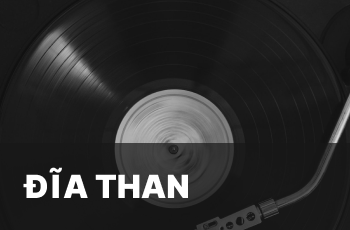
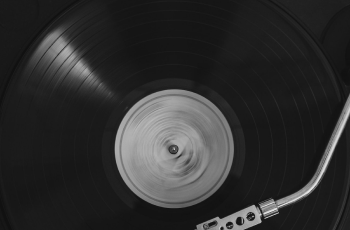
Update admin

Changed region(s): [[0.0571, 0.6087, 0.6857, 0.913], [0.5429, 0.6087, 0.9714, 1.0]]

diff --git a/wwwroot/css/Categories.css b/wwwroot/css/Categories.css
@@ -1,50 +1,106 @@
-.content{
-width: 80%; 
-margin: 20px auto;  
-max-width: 1200px;
-padding: 20px;
-
+.content {
+    width: 80%;
+    margin: 20px auto;
+    max-width: 1200px;
+    padding: 20px;
 }
 
-.content h1{
+.content h1 {
     width: 100%;
     justify-content: center;
     padding: 20px;
     display: flex;
     font-size: 32px;
     font-weight: bolder;
+    animation: fadeInUp 1s ease-in-out;
 }
 
-.quanlysanpham{
+.quanlysanpham,
+.quanlythongtin {
     padding: 10px;
     display: flex;
-    justify-content: center;
-    align-items: center;
+    justify-content: space-between; /* Căn đều khoảng cách giữa các ảnh */
+    align-items: flex-start; /* Canh trên cho tất cả các ảnh */
+    flex-wrap: wrap; /* Đảm bảo nội dung tự xuống hàng khi không đủ không gian */
+    gap: 20px; /* Khoảng cách cố định giữa các phần tử */
 }
 
-.line{
+.line {
     height: 2px;
     width: 100%;
     background-color: black;
 }
 
-.container-trangchu-admin{
-    padding: 25px;
+.container-trangchu-admin {
+    position: relative;
+    width: calc(33.33% - 20px); /* Chia đều 3 ảnh trong một hàng, trừ khoảng cách */
+    margin: 0;
+    border-radius: 10px;
+    overflow: hidden;
+    transition: transform 0.3s ease, box-shadow 0.3s ease;
+    flex-grow: 1; /* Đảm bảo các phần tử có kích thước đồng đều */
 }
 
-.quanlythongtin{
-    padding: 10px;
+.container-trangchu-admin img {
+    width: 100%;
+    height: auto; /* Đảm bảo giữ tỷ lệ ảnh */
+    transition: transform 0.3s ease;
+}
+
+.container-trangchu-admin img:hover {
+    transform: scale(1.1); /* Zoom ảnh khi hover */
+}
+
+.container-trangchu-admin .animated-title {
+    position: absolute;
+    bottom: -10px; /* Căn chữ sát cạnh dưới ảnh */
+    left: 0;
+    width: 100%; /* Vẫn giữ cho chữ phủ hết chiều rộng ảnh */
+    text-align: center;
+    font-size: 18px;
+    font-weight: bold;
+    color: white;
+    padding: 25px 0; /* Tăng padding trên dưới để background chữ rộng hơn */
+    background: rgba(0, 0, 0, 0.8); /* Nền đen mờ */
+    transition: background 0.3s ease, transform 0.3s ease;
+    z-index: 2;
+    box-sizing: border-box; /* Đảm bảo padding không ảnh hưởng kích thước */
+}
+
+.container-trangchu-admin:hover .animated-title {
+    background: rgba(0, 0, 0, 0.9); /* Tăng độ đậm khi hover */
+    transform: scale(1.05); /* Phóng to nhẹ chữ khi hover */
+}
+
+
+.container-trangchu-admin:hover {
+    transform: translateY(-5px); /* Hiệu ứng nổi khi hover */
+    box-shadow: 0 10px 20px rgba(0, 0, 0, 0.3);
+}
+
+.quanlyblog {
+    padding: 0%;
+    margin: 0%;
     display: flex;
     justify-content: center;
     align-items: center;
 }
 
-.quanlyblog{
-    padding: 0%;
-    margin: 0%;
-}
-
-.quanlybaiviet{
+.quanlybaiviet {
     padding-top: 20px;
     margin: 0%;
+    width: 100%; /* Chiếm toàn bộ chiều ngang */
+    text-align: center; /* Canh giữa nội dung */
+}
+
+/* Animation xuất hiện chữ */
+@keyframes fadeInUp {
+    from {
+        opacity: 0;
+        transform: translateY(20px);
+    }
+    to {
+        opacity: 1;
+        transform: translateY(0);
+    }
 }
